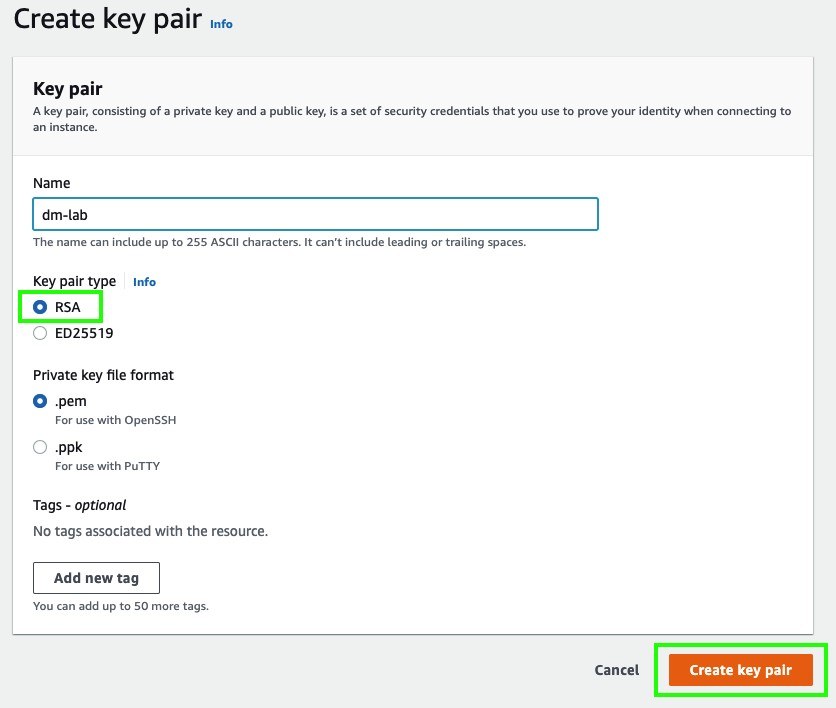
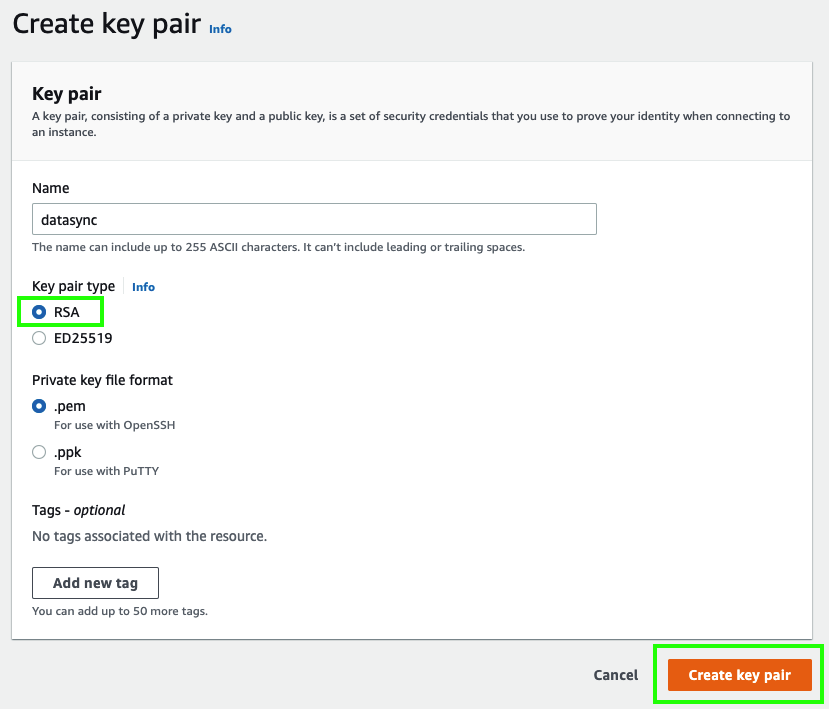
Update

diff --git a/content/20_datasync/10_preparacion.md b/content/20_datasync/10_preparacion.md
@@ -11,10 +11,10 @@ Lo primero que debe hacer es crear un key pair. Este key pair le permitirá acce
 2. Haga click en **Services** y posteriormente seleccione el servicio de **EC2**.
 3. Una vez dentro de la consola de Amazon EC2, haga click en la sección de **Key Pairs** que se encuentra en el menú lateral izquierdo.
 4. Haga click en **Create key pair**.
-5. En el campo de **Key pair name** ingrese un nombre para su key pair (ejemplo: **dm-lab**).
+5. En el campo de **Key pair name** ingrese un nombre para su key pair (ejemplo: **datasync**).
 6. Haga click en **Create** y guarde el archivo que se va a descargar.
 
-![Create key pair](/static/images/mgn/keypair.png)
+![Create key pair](/static/images/ds/keypair.png)
 
 ##### 2. Desplegar plantilla de AWS CloudFormation
 
@@ -53,7 +53,7 @@ http://checkip.amazonaws.com/
 12. Haga click en **Next**.
 13. En el campo de **Stack name** escriba **datasync-lab**.
 14. En el campo de **IPPublica** ingrese la dirección IP que copió anteriormente.
-15. En el menú desplegable de **KeyPair** bajo la sección de **Parameters** elija el key pair que creó anteriormente (**dm-lab**).
+15. En el menú desplegable de **KeyPair** bajo la sección de **Parameters** elija el key pair que creó anteriormente (**datasync**).
 16. Haga click en **Next**.
 17. En la siguiente pantalla haga click de nuevo en **Next**.
 18. En la siguiente pantalla seleccione la casilla de **I acknowledge that AWS CloudFormation might create IAM resources** que aparece el final.
